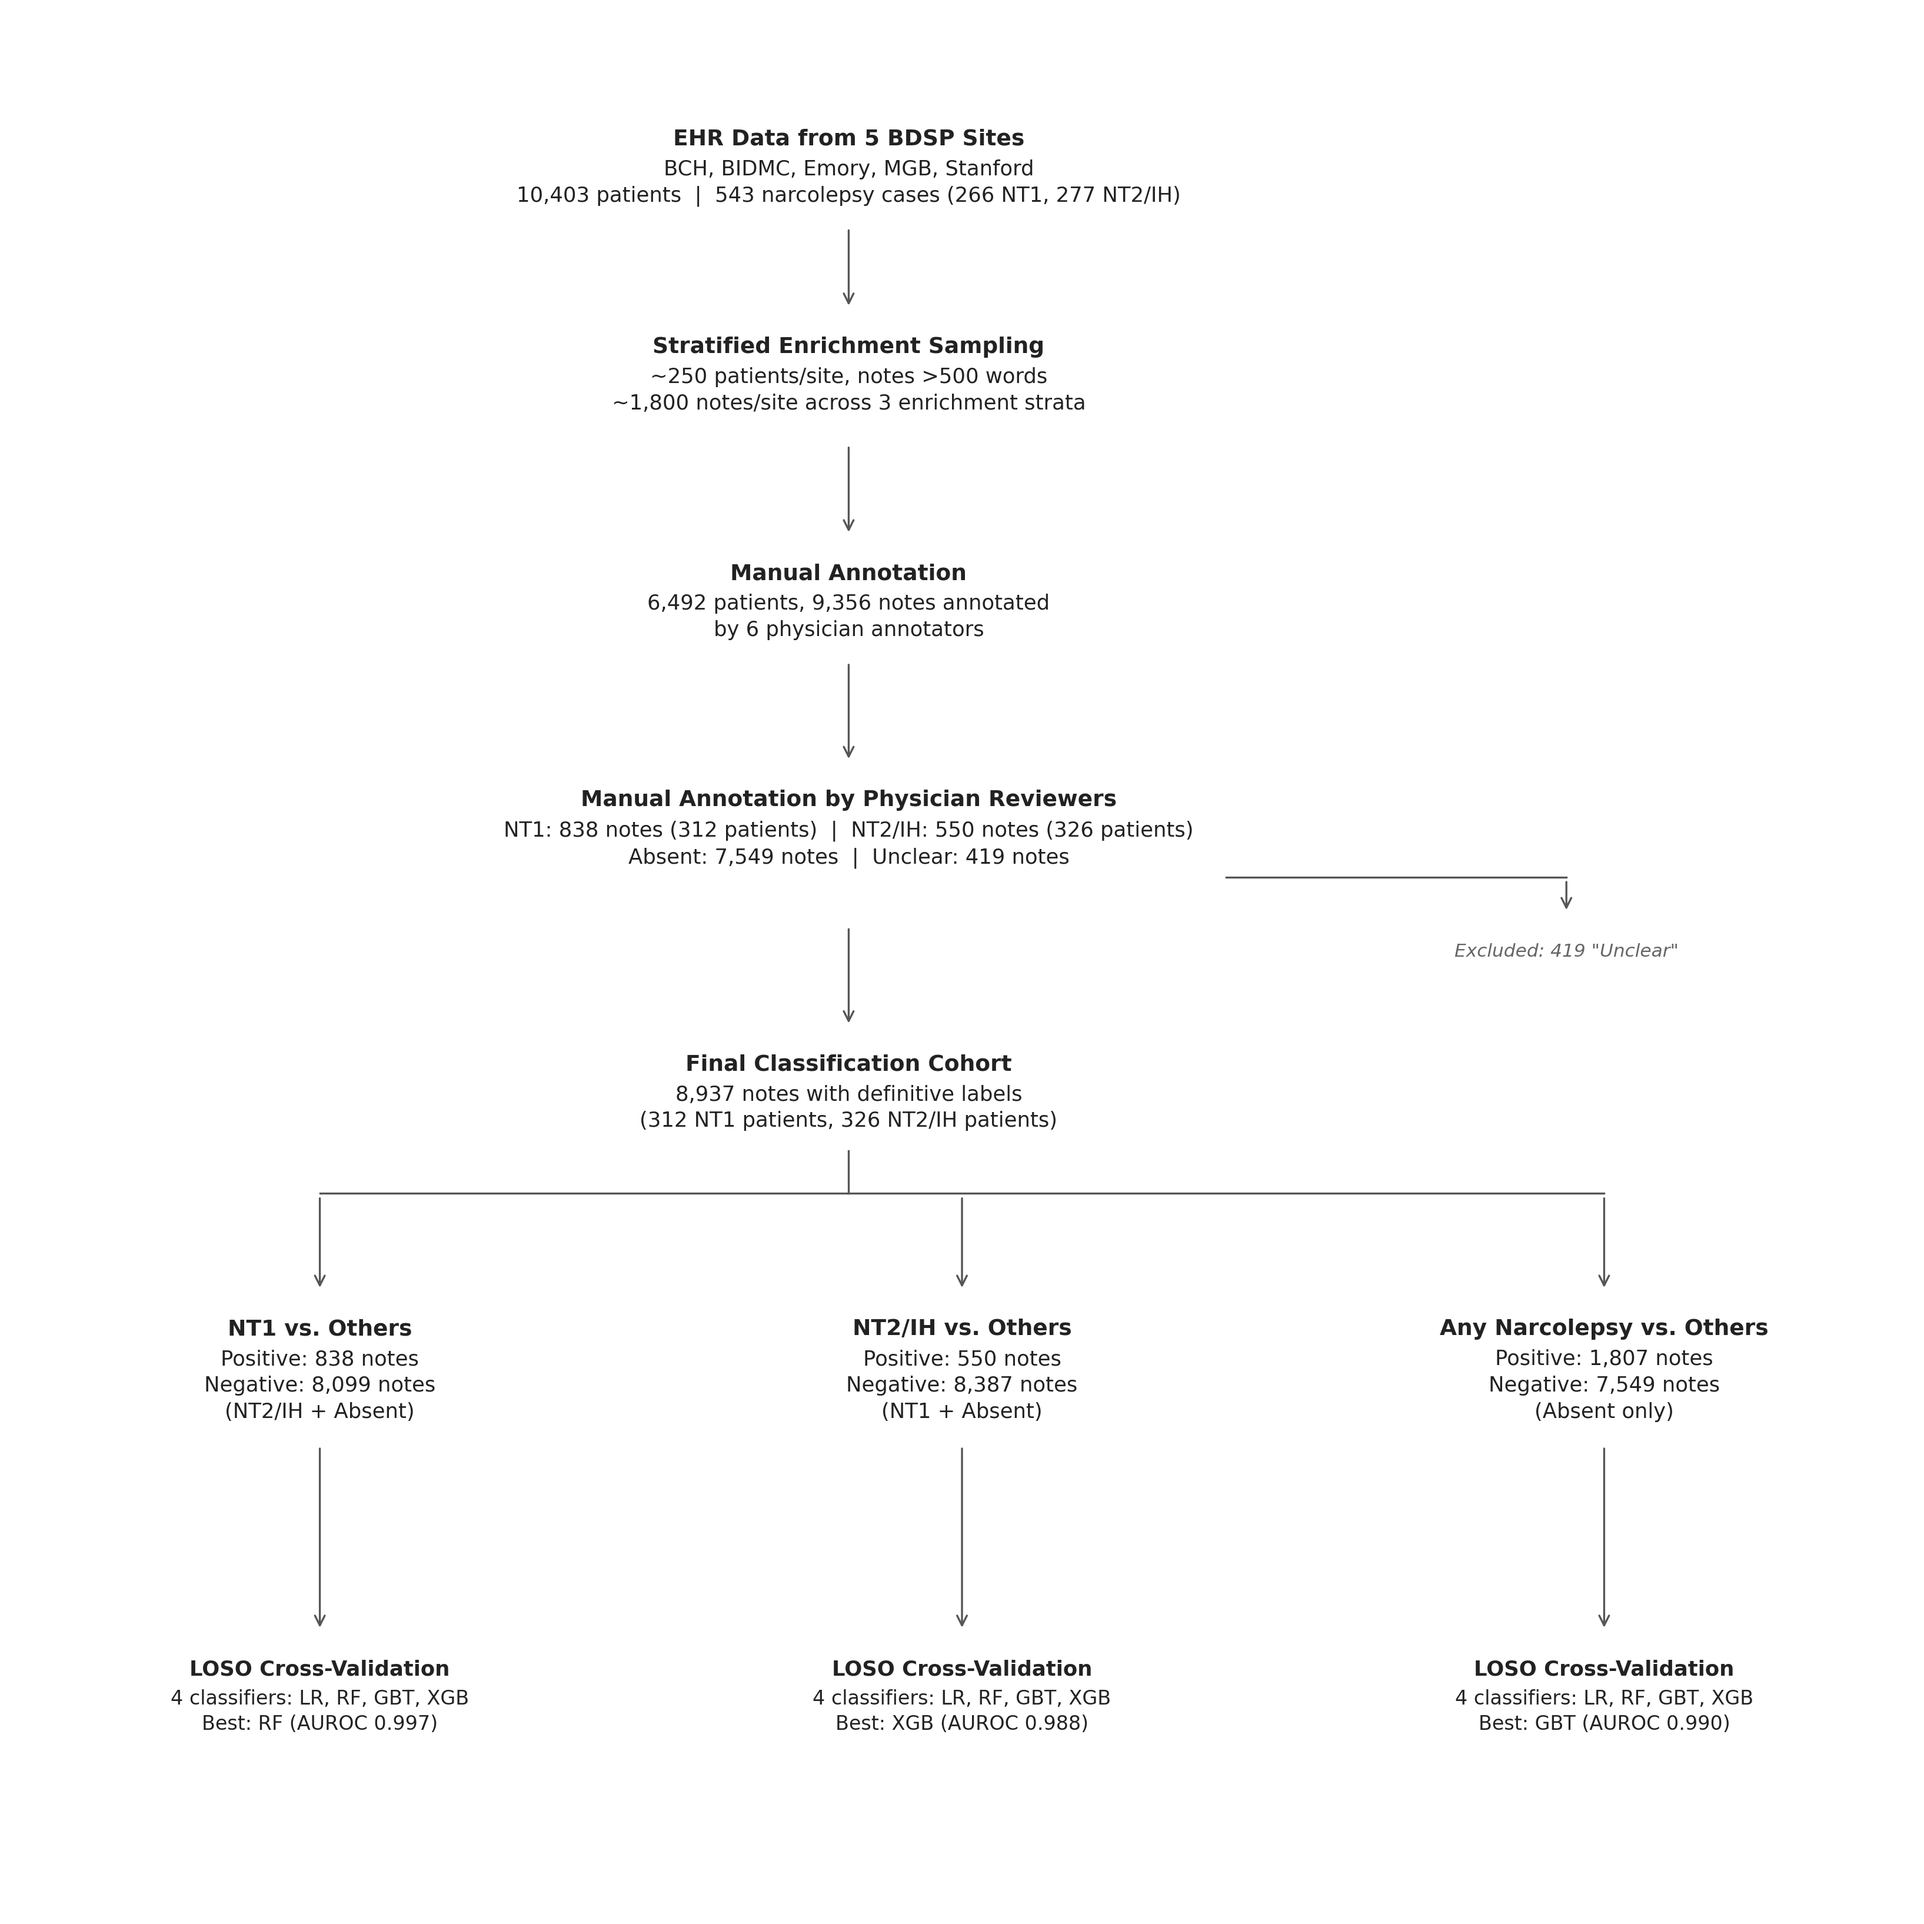
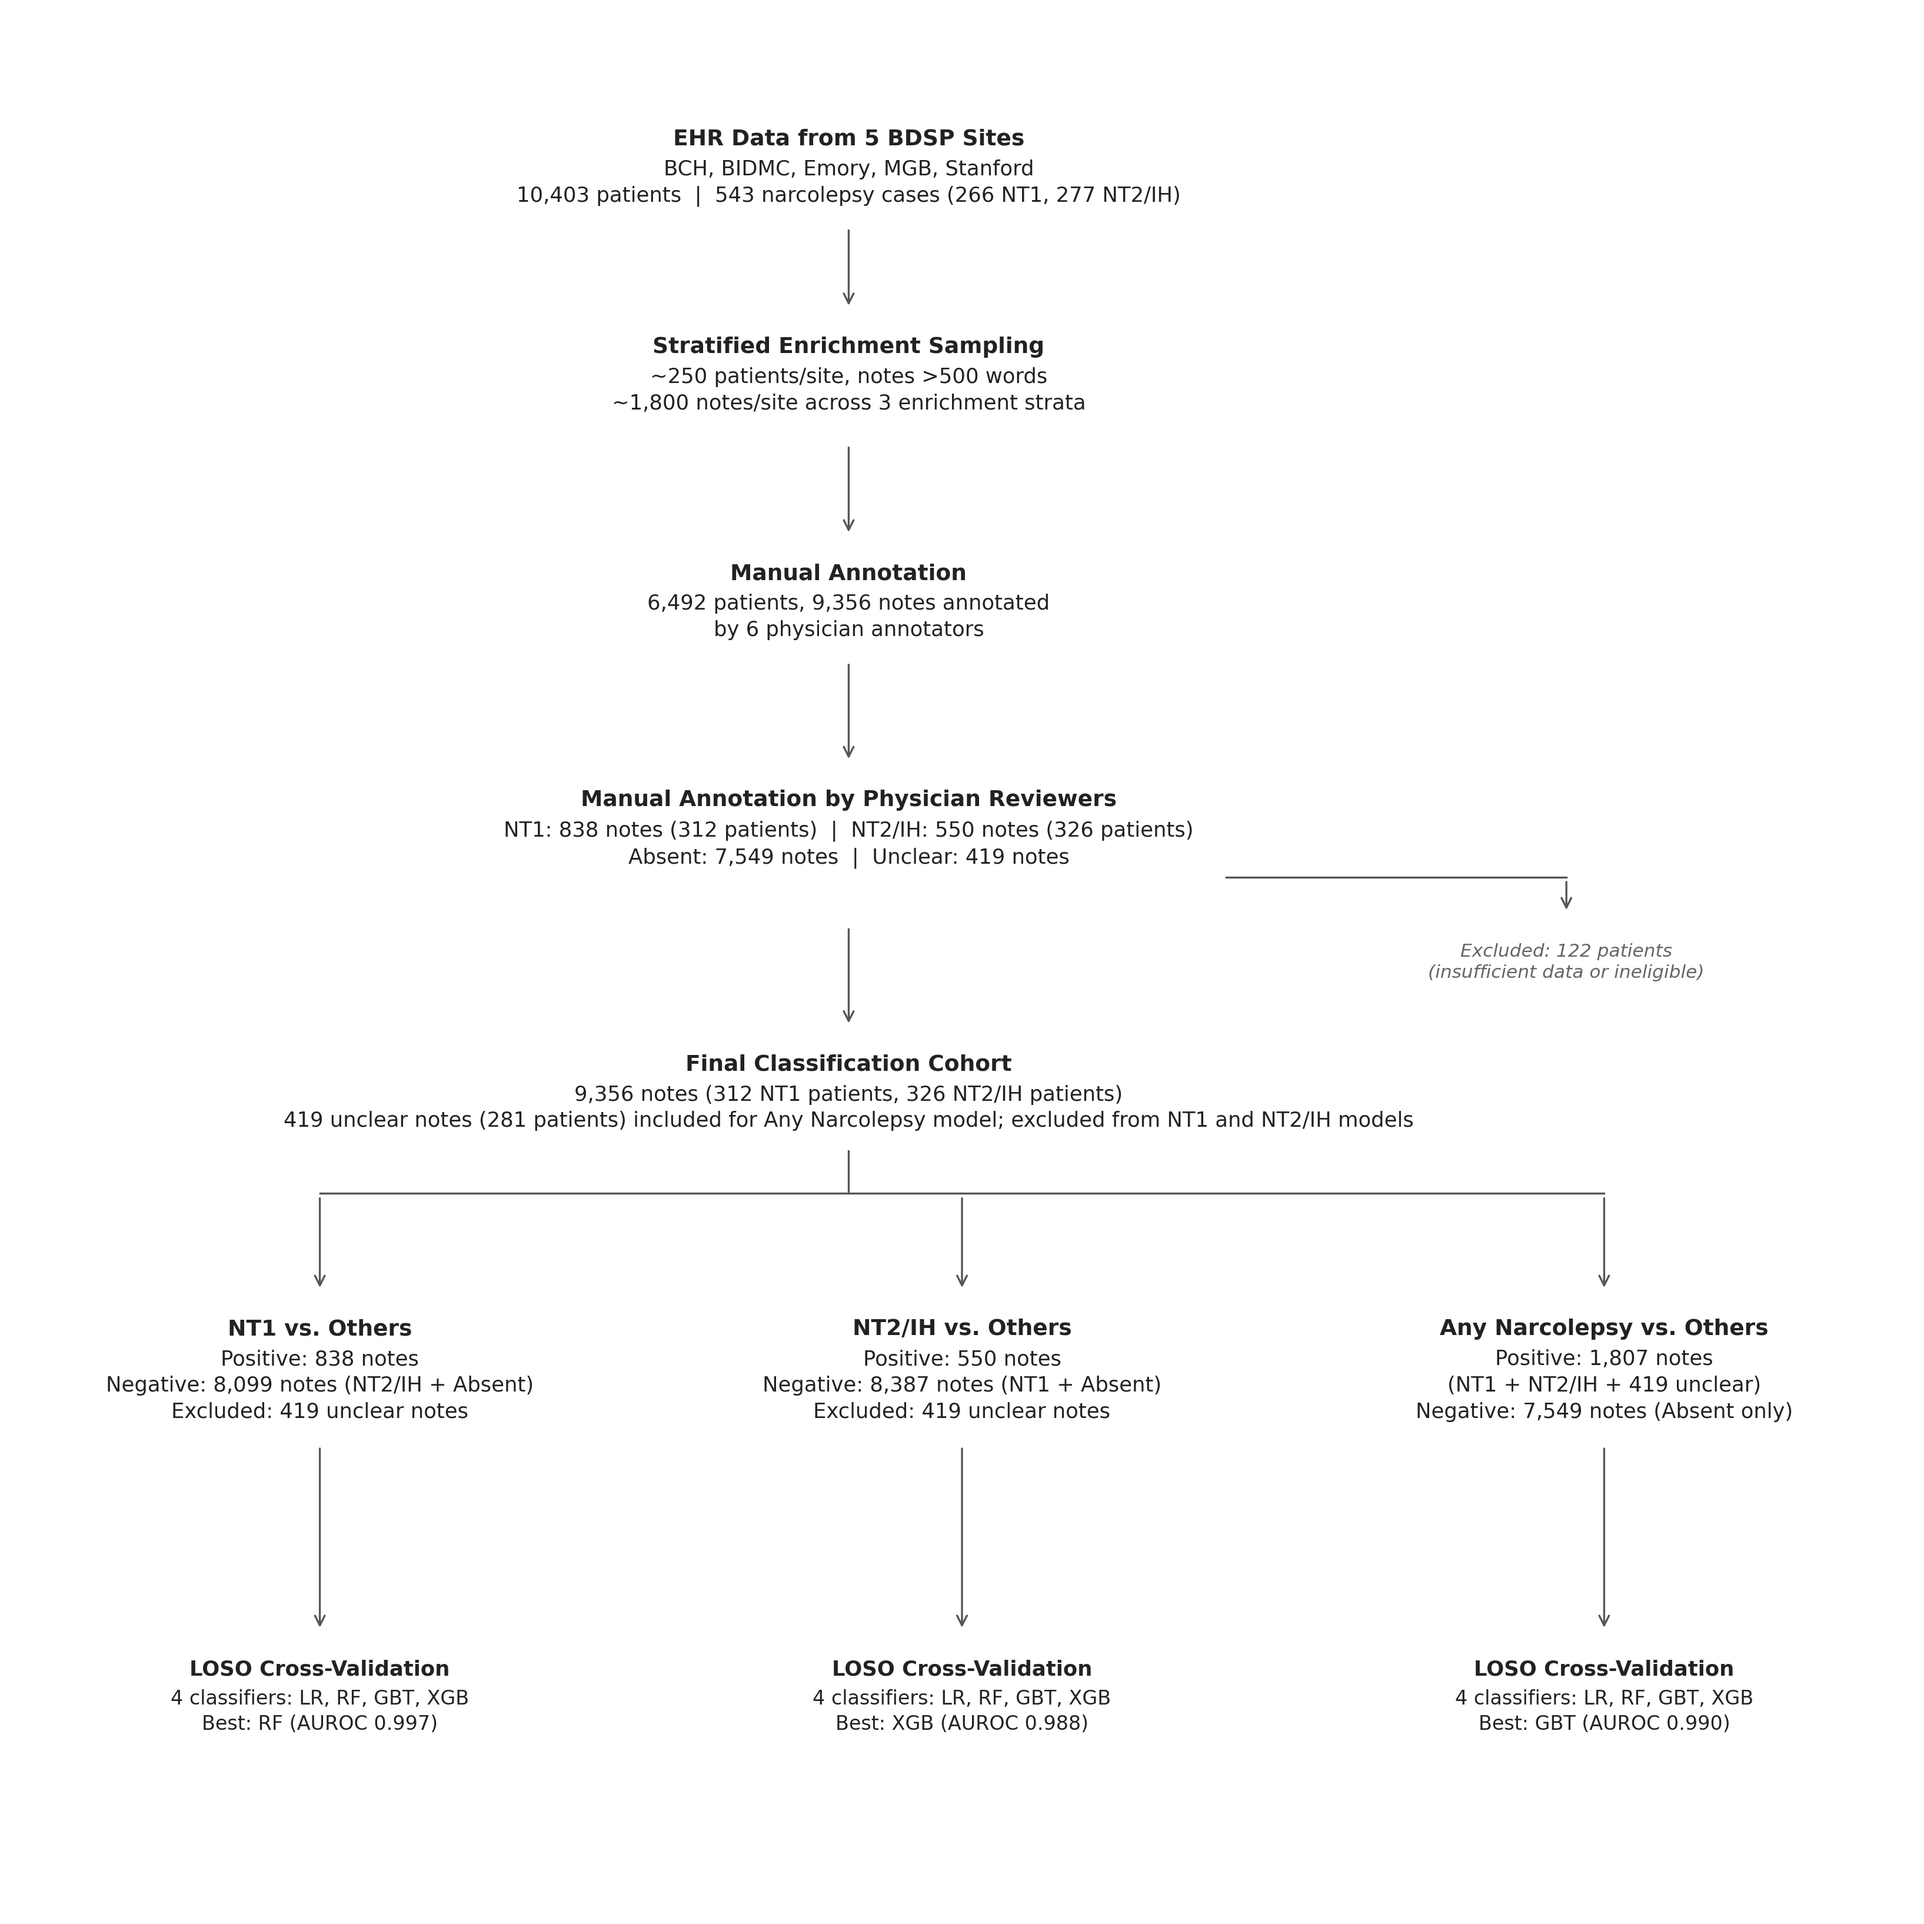
consort diagram update

diff --git a/paper_figures/consort_diagrams.py b/paper_figures/consort_diagrams.py
@@ -124,7 +124,7 @@ def make_cross_sectional_consort():
 
     # --- Exclusion side branch ---
     draw_side_text(ax, cx + 0.20, y4 - 0.035, excl_x, y4 - 0.07,
-                   'Excluded: 419 "Unclear"',
+                   'Excluded: 122 patients\n(insufficient data or ineligible)',
                    fontsize=7.5)
 
     # --- Row 5: Final Cohort ---
@@ -132,8 +132,8 @@ def make_cross_sectional_consort():
     draw_arrow(ax, cx, y4 - 0.06, cx, y5 + 0.025)
     draw_text(ax, cx, y5,
               'Final Classification Cohort',
-              '8,937 notes with definitive labels\n'
-              '(312 NT1 patients, 326 NT2/IH patients)')
+              '9,356 notes (312 NT1 patients, 326 NT2/IH patients)\n'
+              '419 unclear notes (281 patients) included for Any Narcolepsy model; excluded from NT1 and NT2/IH models')
 
     # --- Split into three tasks ---
     y6 = 0.30
@@ -146,20 +146,20 @@ def make_cross_sectional_consort():
     draw_text(ax, left_x, y6,
               'NT1 vs. Others',
               'Positive: 838 notes\n'
-              'Negative: 8,099 notes\n'
-              '(NT2/IH + Absent)')
+              'Negative: 8,099 notes (NT2/IH + Absent)\n'
+              'Excluded: 419 unclear notes')
 
     draw_text(ax, mid_x, y6,
               'NT2/IH vs. Others',
               'Positive: 550 notes\n'
-              'Negative: 8,387 notes\n'
-              '(NT1 + Absent)')
+              'Negative: 8,387 notes (NT1 + Absent)\n'
+              'Excluded: 419 unclear notes')
 
     draw_text(ax, right_x, y6,
               'Any Narcolepsy vs. Others',
               'Positive: 1,807 notes\n'
-              'Negative: 7,549 notes\n'
-              '(Absent only)')
+              '(NT1 + NT2/IH + 419 unclear)\n'
+              'Negative: 7,549 notes (Absent only)')
 
     # --- Evaluation ---
     y7 = 0.12
@@ -214,20 +214,20 @@ def make_longitudinal_consort():
     draw_arrow(ax, cx, y1 - 0.04, cx, y2 + 0.025)
     draw_text(ax, cx, y2,
               'Longitudinal Visit Extraction',
-              '10,403 patients  |  1,308,867 visits\n'
-              '543 cases (266 NT1, 277 NT2/IH)  |  9,860 controls')
+              '13,720 patients  |  2,453,753 visits\n'
+              '543 cases (266 NT1, 277 NT2/IH)  |  13,177 controls')
 
     # --- Row 3: Gap Exclusion ---
     y3 = 0.70
     draw_arrow(ax, cx, y2 - 0.045, cx, y3 + 0.025)
     draw_text(ax, cx, y3,
               'After Gap Exclusion (>5 yr between visits)',
-              '8,968 patients  |  1,099,123 visits\n'
-              '488 cases (243 NT1, 245 NT2/IH)  |  8,480 controls')
+              '11,921 patients  |  2,084,765 visits\n'
+              '488 cases (241 NT1, 247 NT2/IH)  |  11,433 controls')
 
     draw_side_text(ax, cx + 0.22, y3 - 0.005, excl_x, y3 - 0.04,
-                   'Excluded: 1,435 patients\n'
-                   '23 NT1, 32 NT2/IH, 1,380 controls',
+                   'Excluded: 1,799 patients\n'
+                   '25 NT1, 30 NT2/IH, 1,744 controls',
                    fontsize=7.5)
 
     # --- Row 4: Visit Subsampling ---
@@ -235,11 +235,10 @@ def make_longitudinal_consort():
     draw_arrow(ax, cx, y3 - 0.045, cx, y4 + 0.025)
     draw_text(ax, cx, y4,
               'After Visit Subsampling (max 20/patient)',
-              '8,968 patients  |  135,426 visits\n'
-              '488 cases (243 NT1, 245 NT2/IH)  |  8,480 controls')
+              '11,921 patients  |  191,040 visits')
 
     draw_side_text(ax, cx + 0.22, y4 - 0.005, excl_x, y4 - 0.035,
-                   'Visits reduced: 876,318 → 164,383\n'
+                   'Visits reduced: 2,084,765 → 191,040\n'
                    'First and last visits preserved',
                    fontsize=7.5, color='#7B68AE')
 
@@ -248,7 +247,7 @@ def make_longitudinal_consort():
     draw_arrow(ax, cx, y4 - 0.045, cx, y5 + 0.025)
     draw_text(ax, cx, y5,
               'Sparse Feature Removal',
-              'Features with <50 non-zero values excluded\n'
+              'Features with <50 non-zero values excluded (934 → 922 features)\n'
               'Chi-squared top 100 features selected per fold')
 
     # --- Row 6: Temporal Windowing ---
@@ -273,21 +272,21 @@ def make_longitudinal_consort():
 
     draw_text(ax, left_x, y7,
               'Any Narcolepsy Model',
-              '191 cases (NT1 + NT2/IH)\n'
-              '8,480 controls',
+              '190 cases (NT1 + NT2/IH)\n'
+              '11,433 controls',
               fontsize=8)
 
     draw_text(ax, mid_x, y7,
               'NT1-Only Model',
-              '72 NT1 cases\n'
-              '8,480 controls\n'
+              '71 NT1 cases\n'
+              '11,433 controls\n'
               'NT2/IH excluded',
               fontsize=8)
 
     draw_text(ax, right_x, y7,
               'NT2/IH-Only Model',
               '119 NT2/IH cases\n'
-              '8,480 controls\n'
+              '11,433 controls\n'
               'NT1 excluded',
               fontsize=8)
 
@@ -299,20 +298,20 @@ def make_longitudinal_consort():
 
     draw_text(ax, left_x, y8,
               'Evaluation',
-              '5-fold CV: AUC 0.802\n'
-              'LOSO: AUC 0.816',
+              '5-fold CV: AUC 0.849\n'
+              'LOSO: AUC 0.832',
               fontsize=8)
 
     draw_text(ax, mid_x, y8,
               'Evaluation',
-              '5-fold CV: AUC 0.815\n'
-              'LOSO: AUC 0.822',
+              '5-fold CV: AUC 0.841\n'
+              'LOSO: AUC 0.861',
               fontsize=8)
 
     draw_text(ax, right_x, y8,
               'Evaluation',
-              '5-fold CV: AUC 0.854\n'
-              'LOSO: AUC 0.763',
+              '5-fold CV: AUC 0.850\n'
+              'LOSO: AUC 0.795',
               fontsize=8)
 
     fig.tight_layout()
